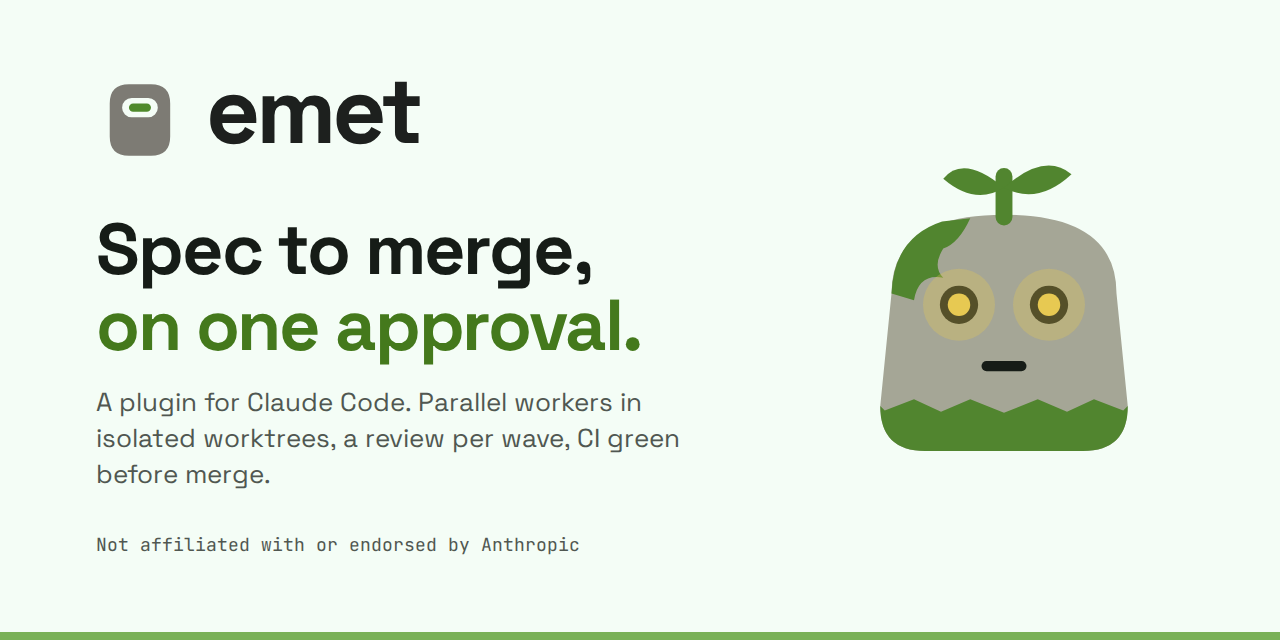
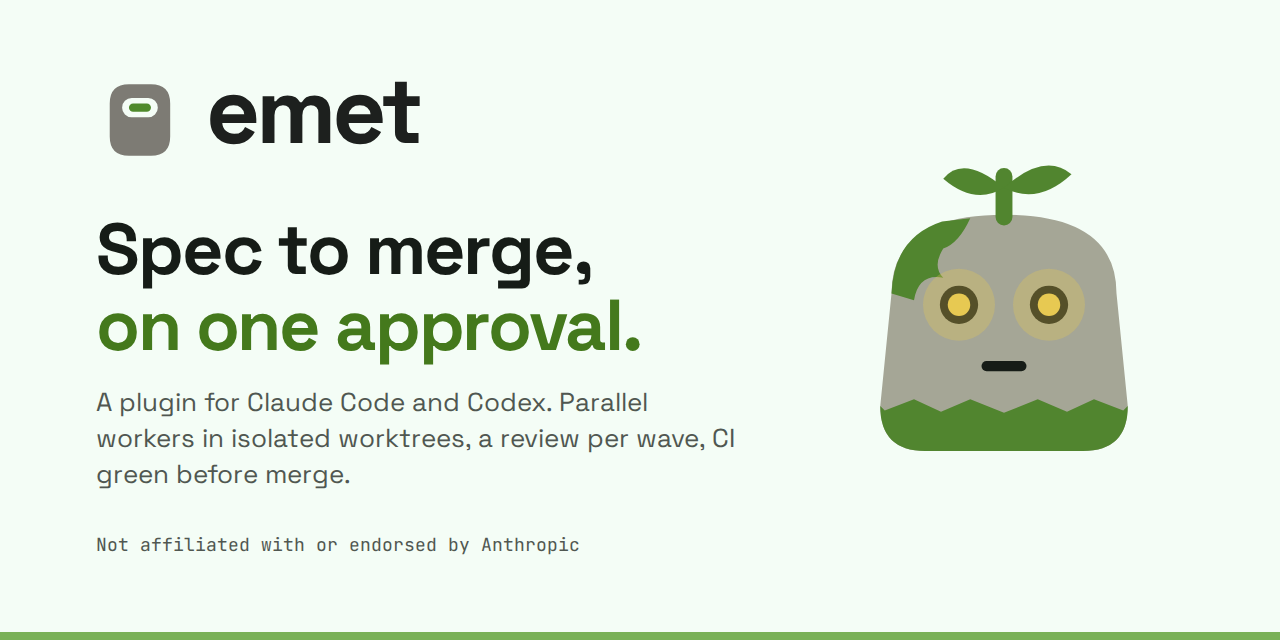
test: ✅ require both Agent hosts in locale strings and refresh share images
- Require Claude Code and Codex in footer.description, hero.sentence and FAQ answers of every locale
- Add a guard test showing the check fails when Codex is dropped
- Say "A plugin for Claude Code and Codex." in the four brand og HTML sources
- Regenerate cover, cover-light, social-preview and social-preview-light PNGs

Refs: #396

Changed region(s): [[0.0625, 0.5938, 0.5938, 0.7812]]

diff --git a/apps/site/src/i18n/ui/index.test.ts b/apps/site/src/i18n/ui/index.test.ts
@@ -41,6 +41,23 @@ describe("getStrings", () => {
   });
 });
 
+const HOST_NAMES = ["Claude Code", "Codex"] as const;
+
+/**
+ * Asserts the footer description, hero sentence and FAQ answers each name both
+ * Agent hosts.
+ * @param strings - One locale's strings.
+ * @returns Nothing.
+ */
+function expectNamesBothHosts(strings: ReturnType<typeof getStrings>): void {
+  const faqAnswers = strings.faq.items.map((item) => item.answer).join("\n");
+  for (const name of HOST_NAMES) {
+    expect(strings.footer.description).toContain(name);
+    expect(strings.hero.sentence).toContain(name);
+    expect(faqAnswers).toContain(name);
+  }
+}
+
 describe("locale string parity", () => {
   for (const locale of translated) {
     test(`${locale} has exactly the English keys and no empty string`, () => {
@@ -64,8 +81,42 @@ describe("locale string parity", () => {
       expect(strings.footer.builtBy).toContain("AndryOre");
       expect(strings.hero.name).toBe("emet");
       expect(strings.how.request).toBe(en.how.request);
-      expect(strings.footer.description).toContain("Claude Code");
-      expect(strings.hero.sentence).toContain("Claude Code");
+    });
+
+    test(`${locale} names both Agent hosts in the footer, hero and FAQ`, () => {
+      expectNamesBothHosts(getStrings(locale));
     });
   }
+});
+
+/**
+ * Removes every "Codex" from a string, as a locale that dropped the host would.
+ * @param text - A locale string.
+ * @returns The string without "Codex".
+ */
+function stripCodex(text: string): string {
+  return text.replaceAll("Codex", "");
+}
+
+describe("host naming guard", () => {
+  test("fails when a locale drops Codex from any of the three strings", () => {
+    const base = getStrings("es");
+    const dropped = [
+      { ...base, footer: { ...base.footer, description: stripCodex(base.footer.description) } },
+      { ...base, hero: { ...base.hero, sentence: stripCodex(base.hero.sentence) } },
+      {
+        ...base,
+        faq: {
+          ...base.faq,
+          items: base.faq.items.map((item) => ({
+            question: item.question,
+            answer: stripCodex(item.answer),
+          })),
+        },
+      },
+    ];
+    for (const mutated of dropped) {
+      expect(() => expectNamesBothHosts(mutated)).toThrow();
+    }
+  });
 });

diff --git a/docs/brand/og/cover.html b/docs/brand/og/cover.html
@@ -67,8 +67,8 @@
       <img class="logo" src="../logo/lockup-horizontal-dark.svg" alt="emet" />
       <h1>Spec to merge,<br /><span>on one approval.</span></h1>
       <p>
-        A plugin for Claude Code. Parallel workers in isolated worktrees, a review per wave, CI
-        green before merge.
+        A plugin for Claude Code and Codex. Parallel workers in isolated worktrees, a review per
+        wave, CI green before merge.
       </p>
       <code>Not affiliated with or endorsed by Anthropic</code>
     </main>

diff --git a/docs/brand/og/social-preview.html b/docs/brand/og/social-preview.html
@@ -67,8 +67,8 @@
       <img class="logo" src="../logo/lockup-horizontal-dark.svg" alt="emet" />
       <h1>Spec to merge,<br /><span>on one approval.</span></h1>
       <p>
-        A plugin for Claude Code. Parallel workers in isolated worktrees, a review per wave, CI
-        green before merge.
+        A plugin for Claude Code and Codex. Parallel workers in isolated worktrees, a review per
+        wave, CI green before merge.
       </p>
       <code>Not affiliated with or endorsed by Anthropic</code>
     </main>

diff --git a/docs/brand/og/cover-light.html b/docs/brand/og/cover-light.html
@@ -67,8 +67,8 @@
       <img class="logo" src="../logo/lockup-horizontal.svg" alt="emet" />
       <h1>Spec to merge,<br /><span>on one approval.</span></h1>
       <p>
-        A plugin for Claude Code. Parallel workers in isolated worktrees, a review per wave, CI
-        green before merge.
+        A plugin for Claude Code and Codex. Parallel workers in isolated worktrees, a review per
+        wave, CI green before merge.
       </p>
       <code>Not affiliated with or endorsed by Anthropic</code>
     </main>

diff --git a/docs/brand/og/social-preview-light.html b/docs/brand/og/social-preview-light.html
@@ -67,8 +67,8 @@
       <img class="logo" src="../logo/lockup-horizontal.svg" alt="emet" />
       <h1>Spec to merge,<br /><span>on one approval.</span></h1>
       <p>
-        A plugin for Claude Code. Parallel workers in isolated worktrees, a review per wave, CI
-        green before merge.
+        A plugin for Claude Code and Codex. Parallel workers in isolated worktrees, a review per
+        wave, CI green before merge.
       </p>
       <code>Not affiliated with or endorsed by Anthropic</code>
     </main>
